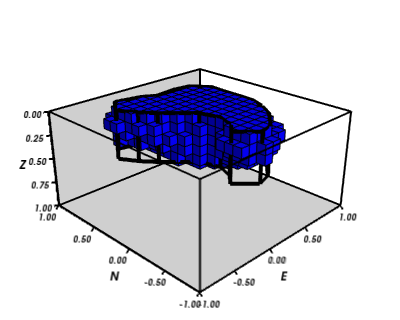
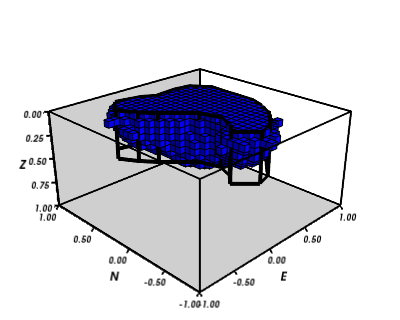
Increased number of prisms in harvester example

diff --git a/papers/leonardo_uieda/leonardo_uieda.rst b/papers/leonardo_uieda/leonardo_uieda.rst
@@ -622,9 +622,9 @@ the estimated density distribution grows
 .. code-block:: python
 
     # Make a mesh and a seed
-    mesh = mesher.PrismMesh(bounds, (10, 20, 20))
+    mesh = mesher.PrismMesh(bounds, (15, 30, 30))
     seeds = gravmag.harvester.sow(
-        [[0, 0, 100, {'density':500}]],
+        [[200, 300, 100, {'density':500}]],
         mesh)
     myv.figure()
     myv.prisms([mesh[s.i] for s in seeds])
@@ -640,7 +640,7 @@ the estimated density distribution grows
     # Now perform the inversion
     data = [gravmag.harvester.Gz(x, y, z, gz)]
     estimate = gravmag.harvester.harvest(data, seeds,
-        mesh, compactness=0.5, threshold=0.0005)[0]
+        mesh, compactness=0.1, threshold=0.0001)[0]
     mesh.addprop('density', estimate['density'])
     body = mesher.vremove(0, 'density', mesh)
     myv.figure()
@@ -657,7 +657,7 @@ the estimated density distribution grows
 
 .. figure:: gravmag_harvester_seed.png
 
-    The blue prism is the seed used by ``fatiando.gravmag.harvester`` to
+    The small blue prism is the seed used by ``fatiando.gravmag.harvester`` to
     perform the inversion of a gravity anomaly. The black contours are the true
     source of the gravity anomaly.
     :label:`seed`
